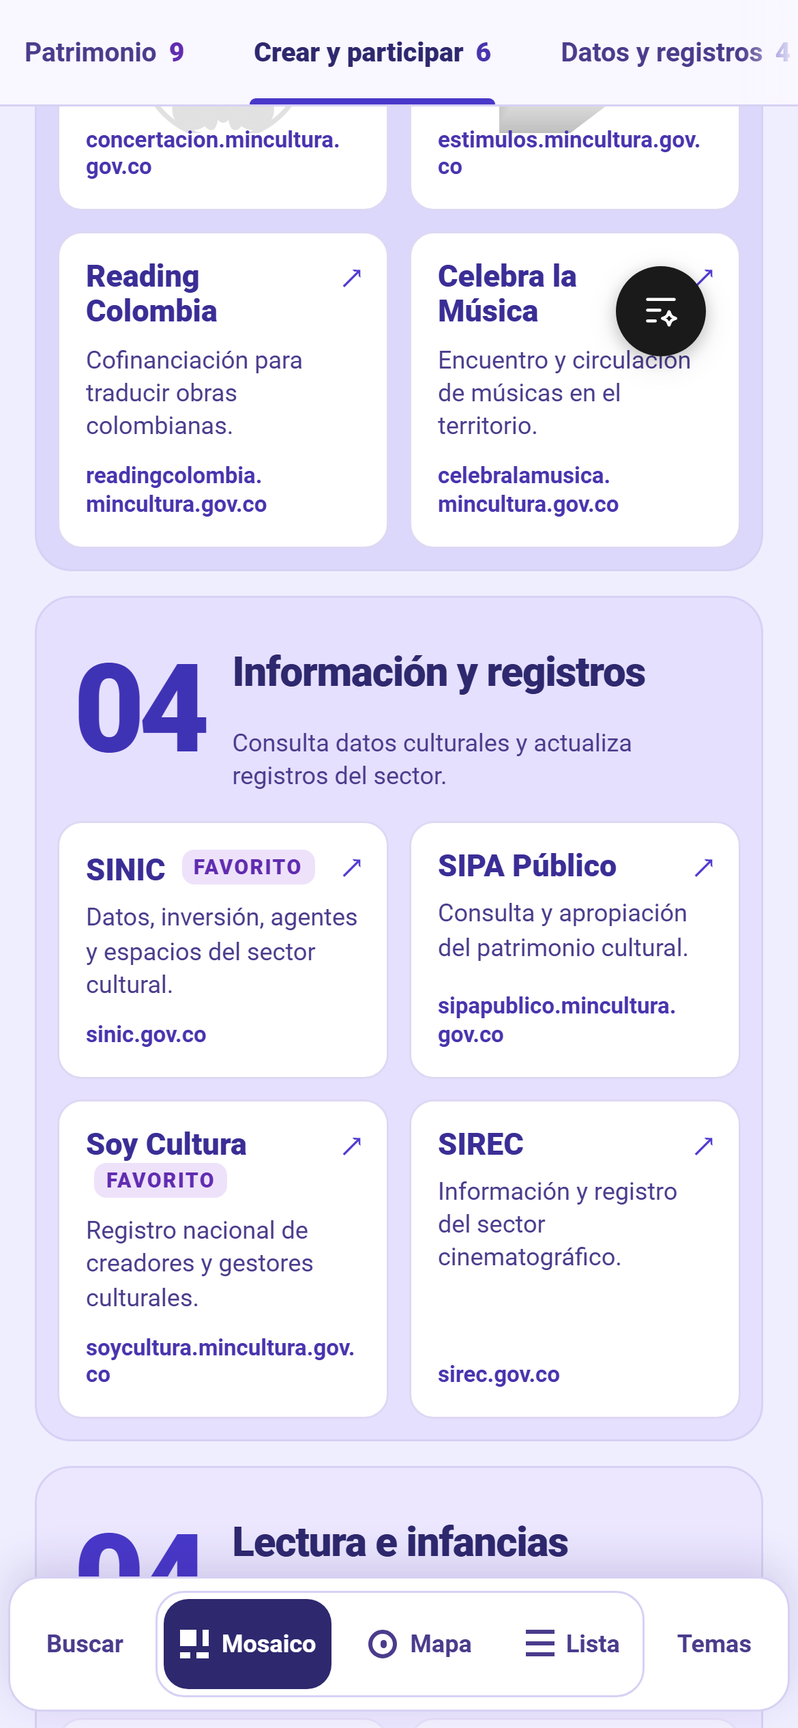
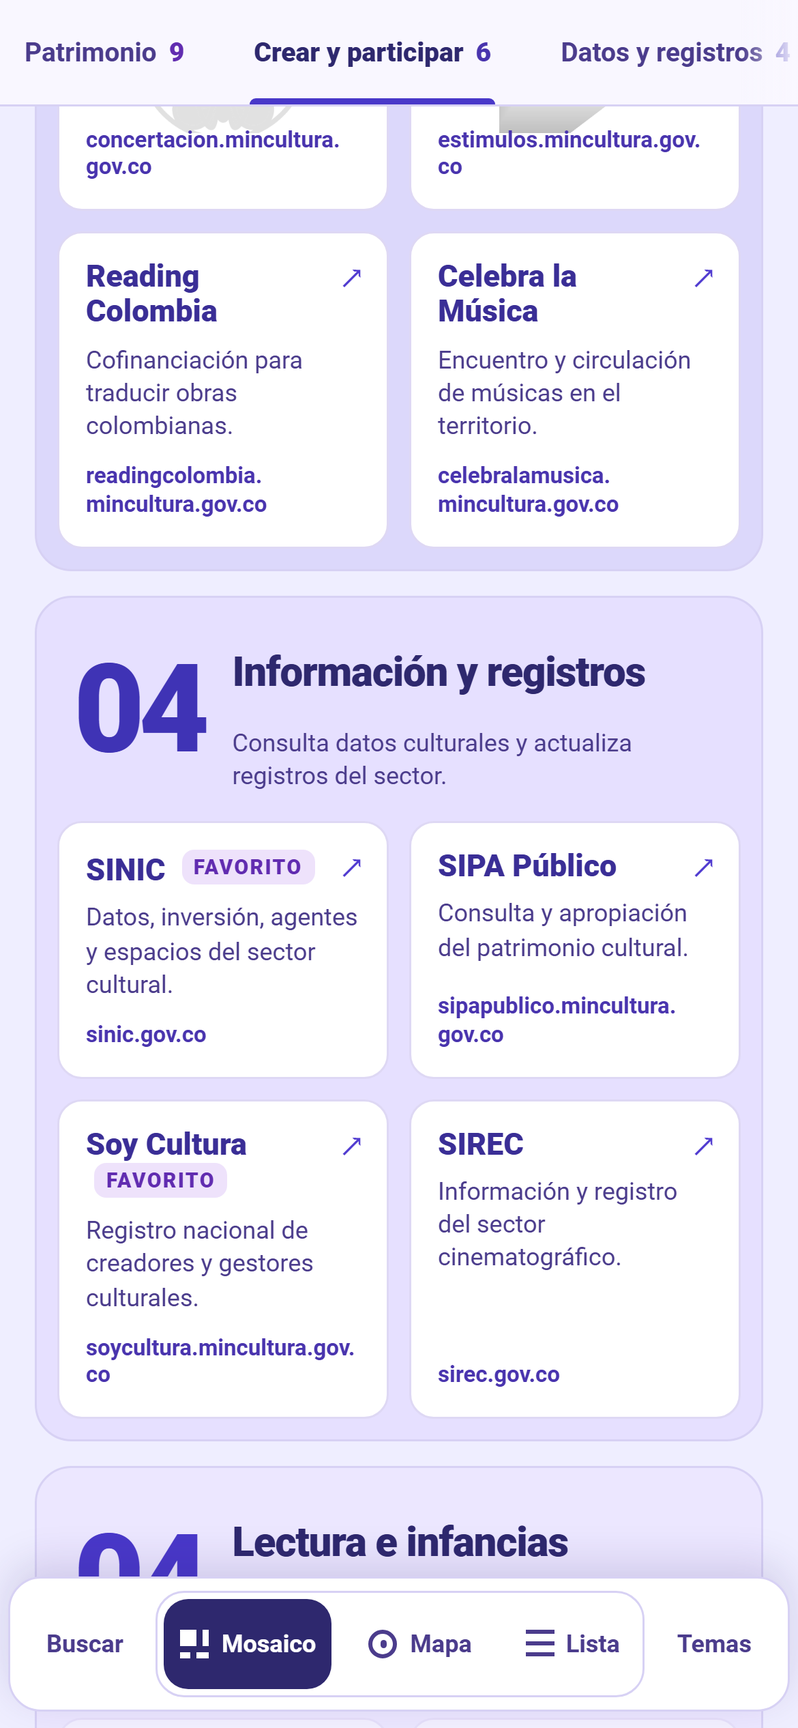
Rutas relativas en el plan y capturas sin la barra de anotacion
Las fichas del plan y cierre-accesibilidad.json escribian la ruta absoluta
del equipo donde se trabajo, 49 lineas en 18 archivos. Pasan a rutas
relativas a la raiz del repositorio, que es el formato que ya usaban las
otras 56 referencias de _hallazgos.md.

Las 16 capturas de pruebas/tactil/capturas/despues se vuelven a tomar:
las anteriores llevaban encima la barra de anotacion de desarrollo, que
ya no forma parte del proyecto. Cada una se comprueba antes de disparar,
con puntero grueso, zocalo presente y las tres pestanas. Las cuatro de
antes/ no se rehacen, porque el codigo de entonces ya no esta, y su LEEME
explica que es el circulo oscuro de la esquina.

Changed region(s): [[0.7692, 0.156, 0.8923, 0.2184]]

diff --git a/pruebas/tactil/plan/_hallazgos.md b/pruebas/tactil/plan/_hallazgos.md
@@ -130,62 +130,62 @@
 
 - [alta] (tarjetas-logos) El toque abre el portal y enciende el logo al mismo tiempo, así que el logo nunca se ve
   medido: En contexto táctil a 390 px, tocando Museo Nacional de Colombia: pointerdown en t=0 ms, pointerup en t=+1,2 ms, click en t=+4,5 ms y se abre una pestaña nueva. La opacidad del logo va 0,00 a los 13 ms, 0,73 a los 111 ms, 0,96 a los 205 ms y 1,00 a los 301 ms (transición de 0,36 s en styles.css:325). El logo termina de aparecer 300 ms después de que el click ya envió a la persona al portal, y la clase .activa se queda 2200 ms más en una vista que ya nadie mira (última muestra con .activa a 2191 ms, primera sin ella a 2288 ms).
-  dónde: C:\Users\camil\Desktop\IA Raiz Proyectos\001 Trabajo Diario\003 Minisiterio Varios\08 Portal Landing Sistemas info\landing-portales\cliente\src\app\componentes\mosaico\mosaico.ts:57 (host '(pointerdown)') y :179-189 (alTocarCasilla); el enlace en tema.html:38-46
+  dónde: cliente\src\app\componentes\mosaico\mosaico.ts:57 (host '(pointerdown)') y :179-189 (alTocarCasilla); el enlace en tema.html:38-46
   propuesta: Separar las dos cosas. En táctil el toque en la tarjeta no debe hacer las dos a la vez: o el primer toque revela y el segundo abre, o la tarjeta muestra el logo sin pedir gesto y el toque solo abre. La segunda opción es la que sale mejor medida (ver el hallazgo de la columna reservada) y la que no obliga a enseñar nada a nadie. Si se conserva el revelado por gesto, el enlace tiene que quedar fuera del área que revela, no debajo de ella.
 
 - [alta] (tarjetas-logos) No hay ningún gesto que muestre el logo sin abrir el portal, ni con el dedo mantenido
   medido: Con el dedo apoyado y sin soltar: a los 1000 ms la tarjeta está activa y el logo en opacidad 1, pero a los 2500 ms, con el dedo TODAVIA abajo, activa=false y la opacidad cayó a 0,002 porque el setTimeout de 2200 ms se cumple igual. Al soltar a los 2,5 s se registra pointerup y click y la pestaña del portal se abre de todos modos (0 pestañas mientras el dedo estaba abajo, 1 al soltar). No existe combinación de toque, mantener o soltar que deje ver el logo y permanecer en la landing.
-  dónde: C:\Users\camil\Desktop\IA Raiz Proyectos\001 Trabajo Diario\003 Minisiterio Varios\08 Portal Landing Sistemas info\landing-portales\cliente\src\app\componentes\mosaico\mosaico.ts:18 (MS_TOQUE = 2200) y :188
+  dónde: cliente\src\app\componentes\mosaico\mosaico.ts:18 (MS_TOQUE = 2200) y :188
   propuesta: El temporizador no puede ser el dueño del estado. Si se mantiene un modo revelado, tiene que colgar del gesto (pointerdown lo enciende, pointerup o pointercancel lo apagan) y el pointerup que sale de un mantenido largo tiene que cancelar la navegación, no dispararla. Lo más limpio es no usar gesto: el logo visible por defecto en táctil.
 
 - [alta] (tarjetas-logos) Con el logo encendido el texto de la tarjeta deja de ser legible: 14 de 15 tarjetas bajan de 3:1
   medido: A 390 px, midiendo el contraste solo en el núcleo del glifo (píxeles del color exacto declarado del texto, para excluir el antialias) y leyendo el fondo real bajo cada glifo en una captura sin texto: con .activa las 15 tarjetas con logo bajan de 4,5:1 y 14 de 15 bajan de 3:1. Peor caso 1,06:1 (Estímulos, texto #eeedfe sobre fondo #e7e7ef; Biblioteca Nacional igual) y 1,21:1 (Instituto Caro y Cuervo). De media el 13,2 % del núcleo del texto queda bajo 4,5:1. Control con la misma tarjeta en reposo y sin logo: peor 4,33:1, 0 tarjetas bajo 3:1 y 3,0 % del núcleo bajo 4,5, que es el suelo de antialias de la fuente condensada. Referencia sin logo sobre el violeta #2e286e: blanco 12,77, #efeeff 11,15, #dcd8fb 9,28.
-  dónde: C:\Users\camil\Desktop\IA Raiz Proyectos\001 Trabajo Diario\003 Minisiterio Varios\08 Portal Landing Sistemas info\landing-portales\cliente\src\styles.css:320-327 (.p-marca, inset:0 + margin:auto lo centra) y :500 (a 390 px se limita a 52 % de ancho, que sigue siendo el centro de la tarjeta)
+  dónde: cliente\src\styles.css:320-327 (.p-marca, inset:0 + margin:auto lo centra) y :500 (a 390 px se limita a 52 % de ancho, que sigue siendo el centro de la tarjeta)
   propuesta: Incumple WCAG 1.4.3 mientras el logo está encendido, y la regla del proyecto es que no se negocia accesibilidad. El logo tiene que dejar de cruzarse con el texto: no bajarle opacidad, sacarlo de debajo del texto. Ver la variante medida de columna reservada.
 
 - [media] (tarjetas-logos) La solución medida es de posición, no de opacidad: logo en columna reservada y siempre visible
   medido: Ocho variantes con la misma métrica de núcleo de glifo, 15 tarjetas, 390 px. Control sin logo: peor 4,33:1, 3,0 % bajo 4,5. Logo siempre visible centrado con la receta de .fav-otro (invert+multiply, op*1,6): peor 1,35:1, 15/15 bajo 3. Igual con op*0,8: peor 2,58:1, 3 bajo 3. Tarjeta violeta permanente con logo en screen: peor 1,60:1, 6/15 bajo 3. Logo arrinconado abajo a la derecha al 38x40 %: peor 2,89:1, 1 bajo 3, 3,2 % bajo 4,5. Columna derecha del 34 % sin acotar el texto: peor 2,50:1, 3 bajo 3. Columna derecha del 34 % CON el texto acotado al 60 % izquierdo: peor 4,40:1, 0 tarjetas bajo 3:1, 2,8 % bajo 4,5, es decir idéntico al control sin logo.
-  dónde: C:\Users\camil\Desktop\IA Raiz Proyectos\001 Trabajo Diario\003 Minisiterio Varios\08 Portal Landing Sistemas info\landing-portales\cliente\src\styles.css:319-334 (.p-marca y las variantes de .fav-otro, que ya traen la receta invert+multiply probada)
+  dónde: cliente\src\styles.css:319-334 (.p-marca y las variantes de .fav-otro, que ya traen la receta invert+multiply probada)
   propuesta: El logo va en una franja propia de la tarjeta que el texto nunca pisa, y por tanto puede quedar encendido siempre, sin gesto, sin temporizador y sin que nadie tenga que descubrir nada. Receta medida que funciona: logo anclado a la derecha (inset:10px 8px 10px auto, max-width 34 %, max-height calc(100% - 20px)), mix-blend-mode multiply con filter invert(1) para que el trazo blanco de la máscara se lea sobre la tarjeta clara, opacidad min(1, --op * 0,9), y nombre, descripción y dominio acotados con padding-right del 40 %. Así el toque vuelve a ser una sola cosa: abrir el portal.
 
 - [media] (tarjetas-logos) La columna reservada es barata en tablet y cara en teléfono: hay que partir la decisión por ancho
   medido: A 390 px la variante de columna reservada sube la tarjeta con logo de 134 a 185 px de alto de media (+38 %), el mosaico de 2427 a 3079 px (+27 %) y la página de 4106 a 4757 px (+16 %); la descripción pasa de 2 o 3 renglones a 4, 5 o 6, y los nombres de 1-2-3 renglones (7/7/1 tarjetas) a 1-2-3 repartidos 5/5/5. A 768 px la tarjeta mide 226 x 132-137 px con el nombre a 17 px en 1 o 2 renglones, es decir hay 63 px más de ancho que a 390 para pagar la columna.
-  dónde: C:\Users\camil\Desktop\IA Raiz Proyectos\001 Trabajo Diario\003 Minisiterio Varios\08 Portal Landing Sistemas info\landing-portales\cliente\src\styles.css:458 (bloque @media max-width:700px) y :433 (bloque max-width:1099px, donde el mosaico pasa a 3 columnas)
+  dónde: cliente\src\styles.css:458 (bloque @media max-width:700px) y :433 (bloque max-width:1099px, donde el mosaico pasa a 3 columnas)
   propuesta: Reservar la columna del logo desde 600 px hacia arriba (tablet y el mosaico de 3 columnas), donde la tarjeta aguanta. A 390 px, con tarjetas de 163 px y 2 columnas, el logo dentro de la tarjeta no cabe sin castigar el texto: que a ese ancho el logo viva donde sí hay sitio, no dentro de la casilla. Las dos salidas a evaluar en el diseño: una ranura de logo en la fila de la vista Lista, que hoy no tiene ninguno, o una hoja de detalle que el toque abre antes de salir al portal.
 
 - [alta] (tarjetas-logos) La vista Lista no tiene ni un logo ni ninguna respuesta al toque
   medido: 0 de 25 filas tienen .p-marca, a 390 y a 768: la directiva appMarca está puesta en la tarjeta del mosaico y en la favorita, nunca en la fila. Al tocar una fila el fondo sigue en rgba(0,0,0,0) y la clase sigue siendo solo 'fila': el único realce, .fila:hover, vive dentro de @media (hover:hover), que en táctil es false (medido hover:false, any-hover:false, pointer:coarse). La fila mide 86 px de alto a 390 y 55,8 a 768, ninguna baja de 44 px. La pestaña Mapa no está por debajo de 1100, así que Lista es la única alternativa al mosaico en móvil y tablet: el conmutador solo muestra mosaico y lista en los dos anchos.
-  dónde: C:\Users\camil\Desktop\IA Raiz Proyectos\001 Trabajo Diario\003 Minisiterio Varios\08 Portal Landing Sistemas info\landing-portales\cliente\src\app\componentes\lista\lista.html:7-19 (falta appMarca) y styles.css:388 (.fila:hover encerrado en hover:hover)
+  dónde: cliente\src\app\componentes\lista\lista.html:7-19 (falta appMarca) y styles.css:388 (.fila:hover encerrado en hover:hover)
   propuesta: Dar a la fila de Lista un estado de toque propio, con la misma lógica que se decida para la tarjeta, y una ranura de logo a la izquierda del nombre (la fila de 86 px a 390 tiene alto de sobra para un logo de 40x40). Además, el realce de la fila no puede vivir solo bajo @media (hover:hover): hace falta un estado equivalente para táctil, o que el realce pase a :active y :focus-visible.
 
 - [media] (tarjetas-logos) Desplazar la página con el dedo apoyado en una tarjeta la hace destellar y atenúa el resto
   medido: Apoyando el dedo sobre una tarjeta y arrastrando 112 px hacia arriba: .activa se enciende en el pointerdown y se apaga en el pointercancel 150 ms después. Con la tarjeta activa, la regla .mosaico:has(.casilla.activa) atenúa los bloques de tema que no la contienen: medido, los temas con fondo #f9f7ff pasan de 1 a 4 de 5 tras el toque. Es decir, cada vez que alguien empieza a desplazar la página desde una tarjeta, esa tarjeta se pone violeta un instante y los demás temas se decoloran; y con un toque de verdad ese decolorado dura los 2200 ms completos.
-  dónde: C:\Users\camil\Desktop\IA Raiz Proyectos\001 Trabajo Diario\003 Minisiterio Varios\08 Portal Landing Sistemas info\landing-portales\cliente\src\app\componentes\mosaico\mosaico.ts:58 y :179; styles.css:339
+  dónde: cliente\src\app\componentes\mosaico\mosaico.ts:58 y :179; styles.css:339
   propuesta: Mientras exista el estado de toque, no encenderlo en pointerdown sino cuando ya se sepa que no es un desplazamiento (pasado un umbral de tiempo sin movimiento, o directamente en pointerup). Y el atenuado del resto del mosaico, que en ratón acompaña un puntero que la persona está moviendo, no tiene sentido en táctil: dejarlo dentro de @media (hover:hover).
 
 - [baja] (tarjetas-logos) Tocar otra vez la misma tarjeta no renueva el logo: se apaga contando desde el primer toque
   medido: Toque a t=0 y segundo toque sobre la MISMA tarjeta a t=1800 ms. La guarda de mosaico.ts:183 (si li es la casilla ya tocada, return) sale antes de rearmar el temporizador, así que el logo se apaga a los 2293 ms del primer toque, es decir 493 ms después del segundo. Para quien toca es que la tarjeta se apaga sola justo cuando acaba de tocarla.
-  dónde: C:\Users\camil\Desktop\IA Raiz Proyectos\001 Trabajo Diario\003 Minisiterio Varios\08 Portal Landing Sistemas info\landing-portales\cliente\src\app\componentes\mosaico\mosaico.ts:183
+  dónde: cliente\src\app\componentes\mosaico\mosaico.ts:183
   propuesta: Si la casilla ya está activa, rearmar el temporizador antes de salir en vez de no hacer nada. Es mover clearTimeout y setTimeout por delante de la guarda.
 
 - [baja] (tarjetas-logos) La clase .activa se queda pegada en una casilla que la búsqueda ya ocultó
   medido: Toque en Museo Nacional de Colombia y, dentro de los 2200 ms, se escribe 'estimulos' en el buscador. Medido a los 700 ms: la casilla sigue con .activa Y con el atributo hidden puesto al mismo tiempo. La clase la escribe classList a mano (mosaico.ts:187) sobre un nodo cuyo [hidden] y [class.apagada] los gobierna Angular, así que ningún binding la limpia; solo el temporizador. Mientras dura, el selector :has(.casilla.activa) sigue mirando un nodo invisible.
-  dónde: C:\Users\camil\Desktop\IA Raiz Proyectos\001 Trabajo Diario\003 Minisiterio Varios\08 Portal Landing Sistemas info\landing-portales\cliente\src\app\componentes\mosaico\mosaico.ts:66-67, :186-195
+  dónde: cliente\src\app\componentes\mosaico\mosaico.ts:66-67, :186-195
   propuesta: Que el estado de toque sea una señal del componente y la clase un binding de Angular, no un classList suelto. Así se apaga cuando el estado firme cambia, y no queda una clase de presentación sobre un nodo oculto.
 
 - [baja] (tarjetas-logos) Los favoritos ya funcionan sin ratón, pero dos de los tres no tienen logo
   medido: A 390 y 768 px el logo de la tarjeta favorita está visible sin gesto: opacidad 0,445, mix-blend-mode multiply con invert. Pero de los 3 favoritos solo Estímulos tiene archivo de marca; SINIC y Soy Cultura no, y en SINIC lo que se ve es la cifra gigante '01' de .fav-marca. El resplandor que sigue al cursor está correctamente apagado en táctil: tras tocar el favorito 02, la variable --x nunca se escribe y la opacidad de ::before se queda en 0. Tamaños a 390: la favorita grande 356 x 226 px con el nombre a 40 px; las otras dos 173 x 163 px con el nombre a 22 px.
-  dónde: C:\Users\camil\Desktop\IA Raiz Proyectos\001 Trabajo Diario\003 Minisiterio Varios\08 Portal Landing Sistemas info\landing-portales\cliente\src\app\nucleo\marcas.ts:28-179 (el índice no tiene entrada para SINIC ni Soy Cultura); styles.css:331-334
+  dónde: cliente\src\app\nucleo\marcas.ts:28-179 (el índice no tiene entrada para SINIC ni Soy Cultura); styles.css:331-334
   propuesta: Los favoritos son la prueba de que un logo permanente se lee bien sobre tarjeta clara con invert+multiply: ese es el patrón a llevar a la tarjeta del mosaico. Para las dos favoritas sin logo, la decisión es de imágenes (faltan máscaras en cliente/public/marcas), no de código, y hay que dejarlo dicho como pendiente de insumos, no como defecto de la interfaz.
 
 - [baja] (tarjetas-logos) La información de la tarjeta cabe entera en móvil: el problema no es recorte, es el logo encima
   medido: A 390 px el mosaico va en 2 columnas con tarjetas de 163 px de ancho y 124 a 157 px de alto (una de 334 x 107 cuando el número de casillas es impar): nombre a 15 px en 1, 2 o 3 renglones (12, 12 y 1 tarjetas), descripción a 12 px en 2 o 3 renglones (12 y 13 tarjetas), dominio a 11 px. A 768 px, 3 columnas, tarjetas de 226 x 132-137 px, nombre a 17 px en 1 o 2 renglones y descripción siempre en 2. Ninguna descripción está recortada en ningún ancho: scrollHeight igual a clientHeight en las 25 tarjetas, y ningún dominio desborda la tarjeta. Las descripciones miden entre 36 y 63 caracteres, 48 de media, y se leen completas. Las tarjetas del mosaico son objetivo tocable de sobra: 0 por debajo de 44 px en cualquiera de sus lados.
-  dónde: C:\Users\camil\Desktop\IA Raiz Proyectos\001 Trabajo Diario\003 Minisiterio Varios\08 Portal Landing Sistemas info\landing-portales\cliente\src\styles.css:492-501 (bloque de tarjeta a 390 px)
+  dónde: cliente\src\styles.css:492-501 (bloque de tarjeta a 390 px)
   propuesta: No hace falta recortar ni acortar textos por espacio. Lo que hay que resolver es la convivencia del logo con ese texto, y de paso subir el dominio de 11 px, que es el texto más pequeño de la tarjeta y el que primero se pierde al ampliar letra.
 
 - [media] (tarjetas-logos) El gesto del logo no se descubre solo: nada en pantalla lo menciona
   medido: El texto visible de la página no contiene la palabra 'logo' ni 'manten' ni 'sosten' en ningún ancho. Las 15 imágenes de marca son decorativas (alt vacío en todas, sin aria-hidden explícito), como corresponde, así que tampoco hay nada que un lector de pantalla anuncie. La única pista de interacción en el mosaico es 'Ver solo este tema +', que es del bloque de tema y no de la tarjeta. Es decir: el apaño de los 2200 ms existe, pero nadie puede saber que existe.
-  dónde: C:\Users\camil\Desktop\IA Raiz Proyectos\001 Trabajo Diario\003 Minisiterio Varios\08 Portal Landing Sistemas info\landing-portales\cliente\src\app\directivas\marca.ts:32-35 y app\componentes\tema\tema.html:22
+  dónde: cliente\src\app\directivas\marca.ts:32-35 y app\componentes\tema\tema.html:22
   propuesta: No documentar el gesto con un texto de ayuda: quitar la necesidad del gesto. Un logo que está siempre visible no necesita instrucciones, y es además lo que ya hacen las tarjetas favoritas de la misma página, así que la interfaz queda coherente consigo misma. Si por alguna razón se conserva un revelado, el estado tendría que anunciarse con aria-expanded o equivalente en un control de verdad, no en una clase de CSS.
 
 - [alta] (navegacion) En teléfono desaparece la navegación institucional y no hay dónde recuperarla

diff --git a/pruebas/tactil/plan/paso14.md b/pruebas/tactil/plan/paso14.md
@@ -10,13 +10,13 @@ Componente nuevo con selector de atributo, por ejemplo div[app-mapa-barras], her
 
 ## Archivos
 
-- `C:\Users\camil\Desktop\IA Raiz Proyectos\001 Trabajo Diario\003 Minisiterio Varios\08 Portal Landing Sistemas info\landing-portales\cliente\src\app\componentes\mapa-barras\mapa-barras.ts`
+- `cliente\src\app\componentes\mapa-barras\mapa-barras.ts`
 
-- `C:\Users\camil\Desktop\IA Raiz Proyectos\001 Trabajo Diario\003 Minisiterio Varios\08 Portal Landing Sistemas info\landing-portales\cliente\src\app\componentes\mapa-barras\mapa-barras.html`
+- `cliente\src\app\componentes\mapa-barras\mapa-barras.html`
 
-- `C:\Users\camil\Desktop\IA Raiz Proyectos\001 Trabajo Diario\003 Minisiterio Varios\08 Portal Landing Sistemas info\landing-portales\cliente\src\app\componentes\explorador\explorador.html`
+- `cliente\src\app\componentes\explorador\explorador.html`
 
-- `C:\Users\camil\Desktop\IA Raiz Proyectos\001 Trabajo Diario\003 Minisiterio Varios\08 Portal Landing Sistemas info\landing-portales\cliente\src\styles.css`
+- `cliente\src\styles.css`
 
 
 ## Cómo se revisa (esto cierra el paso)

diff --git a/pruebas/tactil/plan/paso11.md b/pruebas/tactil/plan/paso11.md
@@ -10,13 +10,13 @@ Componente nuevo con selector de atributo, por ejemplo div[app-zocalo], visible 
 
 ## Archivos
 
-- `C:\Users\camil\Desktop\IA Raiz Proyectos\001 Trabajo Diario\003 Minisiterio Varios\08 Portal Landing Sistemas info\landing-portales\cliente\src\app\componentes\zocalo\zocalo.ts`
+- `cliente\src\app\componentes\zocalo\zocalo.ts`
 
-- `C:\Users\camil\Desktop\IA Raiz Proyectos\001 Trabajo Diario\003 Minisiterio Varios\08 Portal Landing Sistemas info\landing-portales\cliente\src\app\componentes\zocalo\zocalo.html`
+- `cliente\src\app\componentes\zocalo\zocalo.html`
 
-- `C:\Users\camil\Desktop\IA Raiz Proyectos\001 Trabajo Diario\003 Minisiterio Varios\08 Portal Landing Sistemas info\landing-portales\cliente\src\app\app.html`
+- `cliente\src\app\app.html`
 
-- `C:\Users\camil\Desktop\IA Raiz Proyectos\001 Trabajo Diario\003 Minisiterio Varios\08 Portal Landing Sistemas info\landing-portales\cliente\src\styles.css`
+- `cliente\src\styles.css`
 
 
 ## Cómo se revisa (esto cierra el paso)

diff --git a/pruebas/tactil/plan/paso15.md b/pruebas/tactil/plan/paso15.md
@@ -10,11 +10,11 @@ Cambiar vistaEfectiva en directorio.store.ts para que el repliegue a Lista no de
 
 ## Archivos
 
-- `C:\Users\camil\Desktop\IA Raiz Proyectos\001 Trabajo Diario\003 Minisiterio Varios\08 Portal Landing Sistemas info\landing-portales\cliente\src\app\servicios\directorio.store.ts`
+- `cliente\src\app\servicios\directorio.store.ts`
 
-- `C:\Users\camil\Desktop\IA Raiz Proyectos\001 Trabajo Diario\003 Minisiterio Varios\08 Portal Landing Sistemas info\landing-portales\cliente\src\app\componentes\explorador\explorador.ts`
+- `cliente\src\app\componentes\explorador\explorador.ts`
 
-- `C:\Users\camil\Desktop\IA Raiz Proyectos\001 Trabajo Diario\003 Minisiterio Varios\08 Portal Landing Sistemas info\landing-portales\cliente\src\styles.css`
+- `cliente\src\styles.css`
 
 
 ## Cómo se revisa (esto cierra el paso)

diff --git a/pruebas/tactil/capturas/LEEME.md b/pruebas/tactil/capturas/LEEME.md
@@ -51,3 +51,9 @@ Es también la razón de que las cuatro de `antes/` salgan de escritorio: se tom
 con `full_page=True` antes de saber esto. No se vuelven a tomar porque el código
 de entonces ya no está, y en sustancia siguen siendo correctas, porque antes del
 plan un teléfono recibía exactamente esa versión.
+
+Dos cosas más sobre `antes/`, para que nadie se pregunte. Llevan en una esquina un
+círculo oscuro: era una barra de anotación que se usaba en desarrollo para señalar
+cambios sobre la página, y que ya no forma parte del proyecto. Las de `despues/` no
+la llevan. Y no hay versión de `antes/` por vista, porque antes del plan la pestaña
+Mapa no existía por debajo de 1.100 px.

diff --git a/pruebas/tactil/plan/paso17.md b/pruebas/tactil/plan/paso17.md
@@ -10,11 +10,11 @@ Registrar en GUIA.md los componentes nuevos y su carpeta, la existencia del bloq
 
 ## Archivos
 
-- `C:\Users\camil\Desktop\IA Raiz Proyectos\001 Trabajo Diario\003 Minisiterio Varios\08 Portal Landing Sistemas info\landing-portales\GUIA.md`
+- `GUIA.md`
 
-- `C:\Users\camil\Desktop\IA Raiz Proyectos\001 Trabajo Diario\003 Minisiterio Varios\08 Portal Landing Sistemas info\landing-portales\README.md`
+- `README.md`
 
-- `C:\Users\camil\Desktop\IA Raiz Proyectos\001 Trabajo Diario\003 Minisiterio Varios\08 Portal Landing Sistemas info\landing-portales\pruebas\tactil\LEEME.md`
+- `pruebas\tactil\LEEME.md`
 
 
 ## Cómo se revisa (esto cierra el paso)

diff --git a/pruebas/tactil/plan/paso12.md b/pruebas/tactil/plan/paso12.md
@@ -10,9 +10,9 @@ Con los tres controles ya en el zócalo, la barra flotante de contraste y letra 
 
 ## Archivos
 
-- `C:\Users\camil\Desktop\IA Raiz Proyectos\001 Trabajo Diario\003 Minisiterio Varios\08 Portal Landing Sistemas info\landing-portales\cliente\src\styles.css`
+- `cliente\src\styles.css`
 
-- `C:\Users\camil\Desktop\IA Raiz Proyectos\001 Trabajo Diario\003 Minisiterio Varios\08 Portal Landing Sistemas info\landing-portales\cliente\src\app\componentes\accesibilidad\accesibilidad.ts`
+- `cliente\src\app\componentes\accesibilidad\accesibilidad.ts`
 
 
 ## Cómo se revisa (esto cierra el paso)

diff --git a/pruebas/tactil/plan/paso13.md b/pruebas/tactil/plan/paso13.md
@@ -10,9 +10,9 @@ Retirar el apaño de pointerdown de mosaico.ts, es decir alTocarCasilla y la con
 
 ## Archivos
 
-- `C:\Users\camil\Desktop\IA Raiz Proyectos\001 Trabajo Diario\003 Minisiterio Varios\08 Portal Landing Sistemas info\landing-portales\cliente\src\app\componentes\mosaico\mosaico.ts`
+- `cliente\src\app\componentes\mosaico\mosaico.ts`
 
-- `C:\Users\camil\Desktop\IA Raiz Proyectos\001 Trabajo Diario\003 Minisiterio Varios\08 Portal Landing Sistemas info\landing-portales\cliente\src\styles.css`
+- `cliente\src\styles.css`
 
 
 ## Cómo se revisa (esto cierra el paso)

diff --git a/pruebas/tactil/plan/paso16.md b/pruebas/tactil/plan/paso16.md
@@ -10,9 +10,9 @@ Correr el banco completo contra la versión terminada, en 390x844, 430x932, 768x
 
 ## Archivos
 
-- `C:\Users\camil\Desktop\IA Raiz Proyectos\001 Trabajo Diario\003 Minisiterio Varios\08 Portal Landing Sistemas info\landing-portales\pruebas\tactil\auditoria.py`
+- `pruebas\tactil\auditoria.py`
 
-- `C:\Users\camil\Desktop\IA Raiz Proyectos\001 Trabajo Diario\003 Minisiterio Varios\08 Portal Landing Sistemas info\landing-portales\pruebas\tactil\cierre.json`
+- `pruebas\tactil\cierre.json`
 
 
 ## Cómo se revisa (esto cierra el paso)

diff --git a/pruebas/tactil/plan/paso06.md b/pruebas/tactil/plan/paso06.md
@@ -10,9 +10,9 @@ Subir la letra del campo de búsqueda a 16 px en el bloque de móvil y compensar
 
 ## Archivos
 
-- `C:\Users\camil\Desktop\IA Raiz Proyectos\001 Trabajo Diario\003 Minisiterio Varios\08 Portal Landing Sistemas info\landing-portales\cliente\src\styles.css`
+- `cliente\src\styles.css`
 
-- `C:\Users\camil\Desktop\IA Raiz Proyectos\001 Trabajo Diario\003 Minisiterio Varios\08 Portal Landing Sistemas info\landing-portales\cliente\src\index.html`
+- `cliente\src\index.html`
 
 
 ## Cómo se revisa (esto cierra el paso)

diff --git a/pruebas/tactil/plan/paso10.md b/pruebas/tactil/plan/paso10.md
@@ -10,7 +10,7 @@ Guardar el tamaño de letra y el contraste y aplicarlos al arrancar, con el mism
 
 ## Archivos
 
-- `C:\Users\camil\Desktop\IA Raiz Proyectos\001 Trabajo Diario\003 Minisiterio Varios\08 Portal Landing Sistemas info\landing-portales\cliente\src\app\componentes\accesibilidad\accesibilidad.ts`
+- `cliente\src\app\componentes\accesibilidad\accesibilidad.ts`
 
 
 ## Cómo se revisa (esto cierra el paso)
